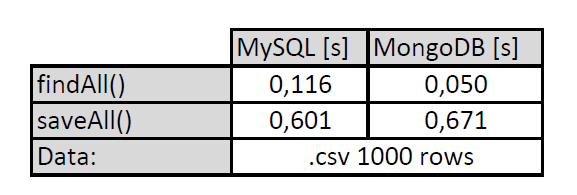
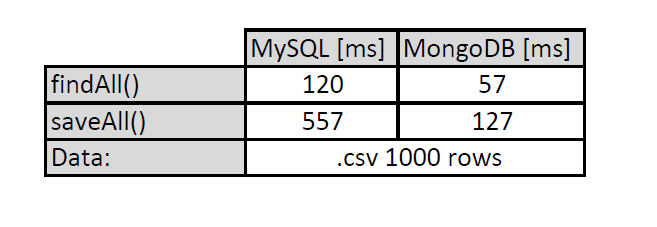
DataService

diff --git a/src/main/java/pl/pozadr/hellomongodb/app/Main.java b/src/main/java/pl/pozadr/hellomongodb/app/Main.java
@@ -4,31 +4,43 @@ import org.springframework.beans.factory.annotation.Autowired;
 import org.springframework.boot.context.event.ApplicationReadyEvent;
 import org.springframework.context.event.EventListener;
 import org.springframework.stereotype.Component;
+import pl.pozadr.hellomongodb.model.UserMongoDb;
+import pl.pozadr.hellomongodb.model.UserSqlDb;
+import pl.pozadr.hellomongodb.service.DataService;
 import pl.pozadr.hellomongodb.service.mongoDb.UserMongoDbService;
 import pl.pozadr.hellomongodb.service.sqlDb.UserSqlDbService;
+
+import java.util.List;
 
 
 @Component
 public class Main {
     private final UserMongoDbService userMongoDbService;
     private final UserSqlDbService userSqlDbService;
+    private final DataService dataService;
+
 
     @Autowired
-    public Main(UserMongoDbService userMongoDbService, UserSqlDbService userSqlDbService) {
+    public Main(UserMongoDbService userMongoDbService, UserSqlDbService userSqlDbService, DataService dataService) {
         this.userMongoDbService = userMongoDbService;
         this.userSqlDbService = userSqlDbService;
+        this.dataService = dataService;
     }
 
+
     @EventListener(ApplicationReadyEvent.class)
-    public void init() {
+    public void run() {
+        List<UserMongoDb> userMongoDbList = dataService.readCsvUserMongoDb();
+        List<UserSqlDb> userSqlDbList = dataService.readCsvUserSqlDb();
         userMongoDbService.deleteAllMongoDb();
-        userMongoDbService.saveAllFromCsvToMongoDb();
+        userMongoDbService.saveAllMongoDb(userMongoDbList);
         userMongoDbService.findAllMongoDb();
 
 
         // application.properties to check: with "spring.jpa.hibernate.ddl-auto=create" deleteAll not required
-        userSqlDbService.saveAllFromCsvToSqlDb();
+        userSqlDbService.saveAllFromCsvToSqlDb(userSqlDbList);
         userSqlDbService.findAllSqlDb();
     }
+
 
 }

diff --git a/src/main/java/pl/pozadr/hellomongodb/service/mongoDb/UserMongoDbServiceImpl.java b/src/main/java/pl/pozadr/hellomongodb/service/mongoDb/UserMongoDbServiceImpl.java
@@ -1,23 +1,18 @@
 package pl.pozadr.hellomongodb.service.mongoDb;
 
-import com.opencsv.bean.CsvToBean;
-import com.opencsv.bean.CsvToBeanBuilder;
 import org.springframework.stereotype.Service;
 import pl.pozadr.hellomongodb.aspect.mongoDb.MongoDbReadTimeMeasure;
 import pl.pozadr.hellomongodb.aspect.mongoDb.MongoDbSaveTimeMeasure;
 import pl.pozadr.hellomongodb.model.UserMongoDb;
 import pl.pozadr.hellomongodb.repository.UserMongoDbRepo;
 
-import java.io.IOException;
-import java.io.Reader;
-import java.nio.file.Files;
-import java.nio.file.Paths;
 import java.util.List;
 
 @Service
 public class UserMongoDbServiceImpl implements UserMongoDbService {
 
     private final UserMongoDbRepo mongoDbRepo;
+
 
     public UserMongoDbServiceImpl(UserMongoDbRepo mongoDbRepo) {
         this.mongoDbRepo = mongoDbRepo;
@@ -31,26 +26,8 @@ public class UserMongoDbServiceImpl implements UserMongoDbService {
 
     @Override
     @MongoDbSaveTimeMeasure
-    public void saveAllFromCsvToMongoDb() {
-        try {
-            // create a reader
-            Reader reader = Files.newBufferedReader(Paths.get("./data/MOCK_DATA.csv"));
-
-            // create csv bean reader
-            CsvToBean<UserMongoDb> csvToBean = new CsvToBeanBuilder<UserMongoDb>(reader)
-                    .withType(UserMongoDb.class)
-                    .withIgnoreLeadingWhiteSpace(true)
-                    .build();
-
-            // iterate through users
-            List<UserMongoDb> users = csvToBean.parse();
-            users.forEach(mongoDbRepo::save);
-
-            // close the reader
-            reader.close();
-        } catch (IOException ex) {
-            ex.printStackTrace();
-        }
+    public void saveAllMongoDb(List<UserMongoDb> users) {
+        mongoDbRepo.saveAll(users);
     }
 
     @Override

diff --git a/src/main/java/pl/pozadr/hellomongodb/service/DataServiceImpl.java b/src/main/java/pl/pozadr/hellomongodb/service/DataServiceImpl.java
@@ -1,0 +1,52 @@
+package pl.pozadr.hellomongodb.service;
+
+import com.opencsv.bean.CsvToBean;
+import com.opencsv.bean.CsvToBeanBuilder;
+import org.springframework.stereotype.Service;
+import pl.pozadr.hellomongodb.model.UserMongoDb;
+import pl.pozadr.hellomongodb.model.UserSqlDb;
+
+import java.io.IOException;
+import java.io.Reader;
+import java.nio.file.Files;
+import java.nio.file.Paths;
+import java.util.ArrayList;
+import java.util.List;
+
+@Service
+public class DataServiceImpl implements DataService {
+    @Override
+    public List<UserMongoDb> readCsvUserMongoDb() {
+        try {
+            Reader reader = Files.newBufferedReader(Paths.get("./data/MOCK_DATA.csv"));
+            CsvToBean<UserMongoDb> csvToBean = new CsvToBeanBuilder<UserMongoDb>(reader)
+                    .withType(UserMongoDb.class)
+                    .withIgnoreLeadingWhiteSpace(true)
+                    .build();
+            List<UserMongoDb> users = csvToBean.parse();
+            reader.close();
+            return users;
+        } catch (IOException ex) {
+            ex.printStackTrace();
+        }
+        return new ArrayList<>();
+    }
+
+    @Override
+    public List<UserSqlDb> readCsvUserSqlDb() {
+        try {
+            Reader reader = Files.newBufferedReader(Paths.get("./data/MOCK_DATA.csv"));
+            CsvToBean<UserSqlDb> csvToBean = new CsvToBeanBuilder<UserSqlDb>(reader)
+                    .withType(UserSqlDb.class)
+                    .withIgnoreLeadingWhiteSpace(true)
+                    .build();
+
+            List<UserSqlDb> users = csvToBean.parse();
+            reader.close();
+            return users;
+        } catch (IOException ex) {
+            ex.printStackTrace();
+        }
+        return new ArrayList<>();
+    }
+}

diff --git a/src/main/java/pl/pozadr/hellomongodb/service/sqlDb/UserSqlDbServiceImpl.java b/src/main/java/pl/pozadr/hellomongodb/service/sqlDb/UserSqlDbServiceImpl.java
@@ -1,19 +1,12 @@
 package pl.pozadr.hellomongodb.service.sqlDb;
 
-import com.opencsv.bean.CsvToBean;
-import com.opencsv.bean.CsvToBeanBuilder;
 import org.springframework.stereotype.Service;
-import pl.pozadr.hellomongodb.aspect.mongoDb.MongoDbReadTimeMeasure;
-import pl.pozadr.hellomongodb.aspect.mongoDb.MongoDbSaveTimeMeasure;
 import pl.pozadr.hellomongodb.aspect.sqlDb.SqlDbReadTimeMeasure;
 import pl.pozadr.hellomongodb.aspect.sqlDb.SqlDbSaveTimeMeasure;
 import pl.pozadr.hellomongodb.model.UserSqlDb;
 import pl.pozadr.hellomongodb.repository.UserSqlDbRepo;
+import pl.pozadr.hellomongodb.service.DataService;
 
-import java.io.IOException;
-import java.io.Reader;
-import java.nio.file.Files;
-import java.nio.file.Paths;
 import java.util.List;
 
 @Service
@@ -33,26 +26,8 @@ public class UserSqlDbServiceImpl implements UserSqlDbService {
 
     @Override
     @SqlDbSaveTimeMeasure
-    public void saveAllFromCsvToSqlDb() {
-        try {
-            // create a reader
-            Reader reader = Files.newBufferedReader(Paths.get("./data/MOCK_DATA.csv"));
-
-            // create csv bean reader
-            CsvToBean<UserSqlDb> csvToBean = new CsvToBeanBuilder<UserSqlDb>(reader)
-                    .withType(UserSqlDb.class)
-                    .withIgnoreLeadingWhiteSpace(true)
-                    .build();
-
-            // iterate through users
-            List<UserSqlDb> users = csvToBean.parse();
-            sqlDbRepo.saveAll(users);
-
-            // close the reader
-            reader.close();
-        } catch (IOException ex) {
-            ex.printStackTrace();
-        }
+    public void saveAllFromCsvToSqlDb(List<UserSqlDb> users) {
+        sqlDbRepo.saveAll(users);
     }
 
     @Override

diff --git a/src/main/java/pl/pozadr/hellomongodb/aspect/sqlDb/SqlDbTimeMeasureAspect.java b/src/main/java/pl/pozadr/hellomongodb/aspect/sqlDb/SqlDbTimeMeasureAspect.java
@@ -15,6 +15,8 @@ public class SqlDbTimeMeasureAspect {
     public SqlDbTimeMeasureAspect() {
         this.readWatch = new StopWatch();
         this.saveWatch = new StopWatch();
+
+
     }
 
     @Before("@annotation(pl.pozadr.hellomongodb.aspect.sqlDb.SqlDbReadTimeMeasure)")
@@ -25,8 +27,7 @@ public class SqlDbTimeMeasureAspect {
     @After("@annotation(pl.pozadr.hellomongodb.aspect.sqlDb.SqlDbReadTimeMeasure)")
     public void stopSqlDbReadTime() {
         readWatch.stop();
-        double readTimeInSeconds = (double) readWatch.getTime() / 1000;
-        System.out.println("Sql read time: " + readTimeInSeconds + "s");
+        System.out.println("Sql read time: " + readWatch.getTime() + " ms");
     }
 
     @Before("@annotation(pl.pozadr.hellomongodb.aspect.sqlDb.SqlDbSaveTimeMeasure)")
@@ -37,7 +38,6 @@ public class SqlDbTimeMeasureAspect {
     @After("@annotation(pl.pozadr.hellomongodb.aspect.sqlDb.SqlDbSaveTimeMeasure)")
     public void stopSqlDbSaveTime() {
         saveWatch.stop();
-        double saveTimeInSeconds = (double) saveWatch.getTime() / 1000;
-        System.out.println("Sql save time: " + saveTimeInSeconds + "s");
+        System.out.println("Sql save time: " + saveWatch.getTime() + " ms");
     }
 }

diff --git a/src/main/java/pl/pozadr/hellomongodb/aspect/mongoDb/MongoDbTimeMeasureAspect.java b/src/main/java/pl/pozadr/hellomongodb/aspect/mongoDb/MongoDbTimeMeasureAspect.java
@@ -25,8 +25,7 @@ public class MongoDbTimeMeasureAspect {
     @After("@annotation(pl.pozadr.hellomongodb.aspect.mongoDb.MongoDbReadTimeMeasure)")
     public void stopMongoDbReadTime() {
         readWatch.stop();
-        double readTimeInSeconds = (double) readWatch.getTime() / 1000;
-        System.out.println("MongoDb read time: " + readTimeInSeconds + "s");
+        System.out.println("MongoDb read time: " + readWatch.getTime() + " ms");
     }
 
     @Before("@annotation(pl.pozadr.hellomongodb.aspect.mongoDb.MongoDbSaveTimeMeasure)")
@@ -37,7 +36,6 @@ public class MongoDbTimeMeasureAspect {
     @After("@annotation(pl.pozadr.hellomongodb.aspect.mongoDb.MongoDbSaveTimeMeasure)")
     public void stopMongoDbSaveTime() {
         saveWatch.stop();
-        double saveTimeInSeconds = (double) saveWatch.getTime() / 1000;
-        System.out.println("MongoDb save time: " + saveTimeInSeconds + "s");
+        System.out.println("MongoDb save time: " + saveWatch.getTime() + " ms");
     }
 }

diff --git a/src/main/java/pl/pozadr/hellomongodb/service/sqlDb/UserSqlDbService.java b/src/main/java/pl/pozadr/hellomongodb/service/sqlDb/UserSqlDbService.java
@@ -1,12 +1,11 @@
 package pl.pozadr.hellomongodb.service.sqlDb;
 
-import pl.pozadr.hellomongodb.model.UserMongoDb;
 import pl.pozadr.hellomongodb.model.UserSqlDb;
 
 import java.util.List;
 
 public interface UserSqlDbService {
-    void saveAllFromCsvToSqlDb();
+    void saveAllFromCsvToSqlDb(List<UserSqlDb> users);
     void deleteAllSqlDb();
     List<UserSqlDb> findAllSqlDb();
 }

diff --git a/src/main/java/pl/pozadr/hellomongodb/service/DataService.java b/src/main/java/pl/pozadr/hellomongodb/service/DataService.java
@@ -1,0 +1,12 @@
+package pl.pozadr.hellomongodb.service;
+
+import pl.pozadr.hellomongodb.model.UserMongoDb;
+import pl.pozadr.hellomongodb.model.UserSqlDb;
+
+import java.util.List;
+
+public interface DataService {
+
+    List<UserMongoDb> readCsvUserMongoDb();
+    List<UserSqlDb> readCsvUserSqlDb();
+}

diff --git a/src/main/java/pl/pozadr/hellomongodb/service/mongoDb/UserMongoDbService.java b/src/main/java/pl/pozadr/hellomongodb/service/mongoDb/UserMongoDbService.java
@@ -5,7 +5,9 @@ import pl.pozadr.hellomongodb.model.UserMongoDb;
 import java.util.List;
 
 public interface UserMongoDbService {
-    void saveAllFromCsvToMongoDb();
+    void saveAllMongoDb(List<UserMongoDb> users);
+
     void deleteAllMongoDb();
+
     List<UserMongoDb> findAllMongoDb();
 }

diff --git a/README.md b/README.md
@@ -13,8 +13,10 @@ application.properties file:
     spring.datasource.username=
     spring.datasource.password=
     spring.datasource.driver-class-name=
-    
     spring.jpa.hibernate.ddl-auto=create
+
+    spring.data.mongodb.uri=
+
     
 
 
